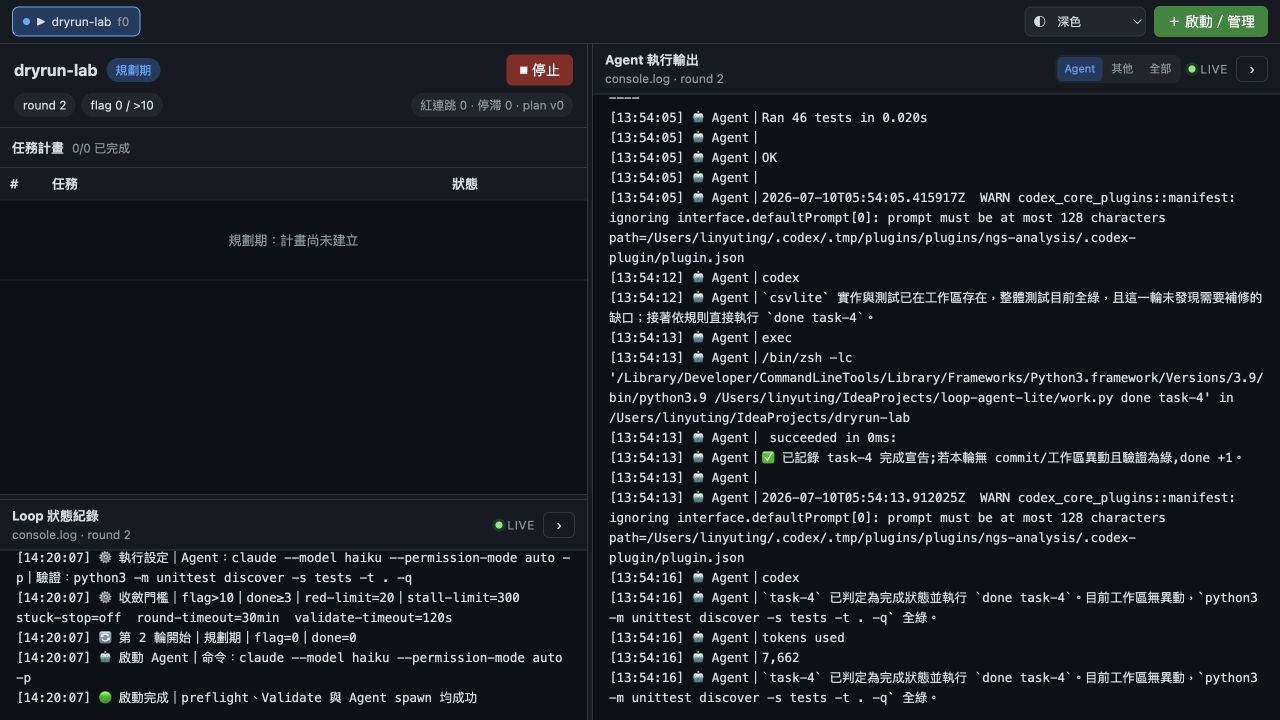
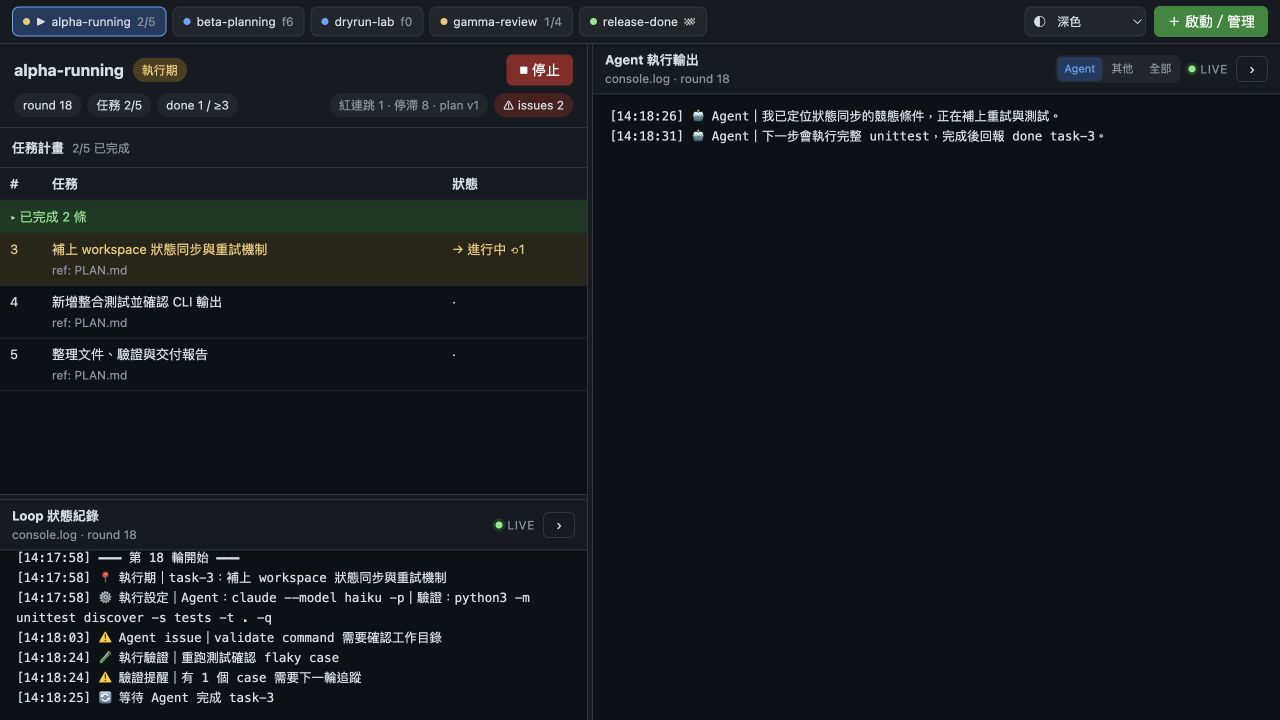
docs: refresh dashboard showcase with mock workspaces

diff --git a/README.md b/README.md
@@ -4,7 +4,7 @@
 
 ![Dashboard 執行中展示](docs/dashboard-running.jpg)
 
-Dashboard 執行中時，左側顯示 Loop 狀態與驗證紀錄，右側顯示 Agent 輸出；兩側可拖曳調整寬度或收合。
+展示圖以 mock fleet 呈現執行中、規劃中、驗收中與已完成等 workspace 狀態；實際資料會由 `workspace/*/state.json` 提供。左側顯示 Loop 狀態與驗證紀錄，右側顯示 Agent 輸出；兩側可拖曳調整寬度或收合。
 
 ## 流程
 